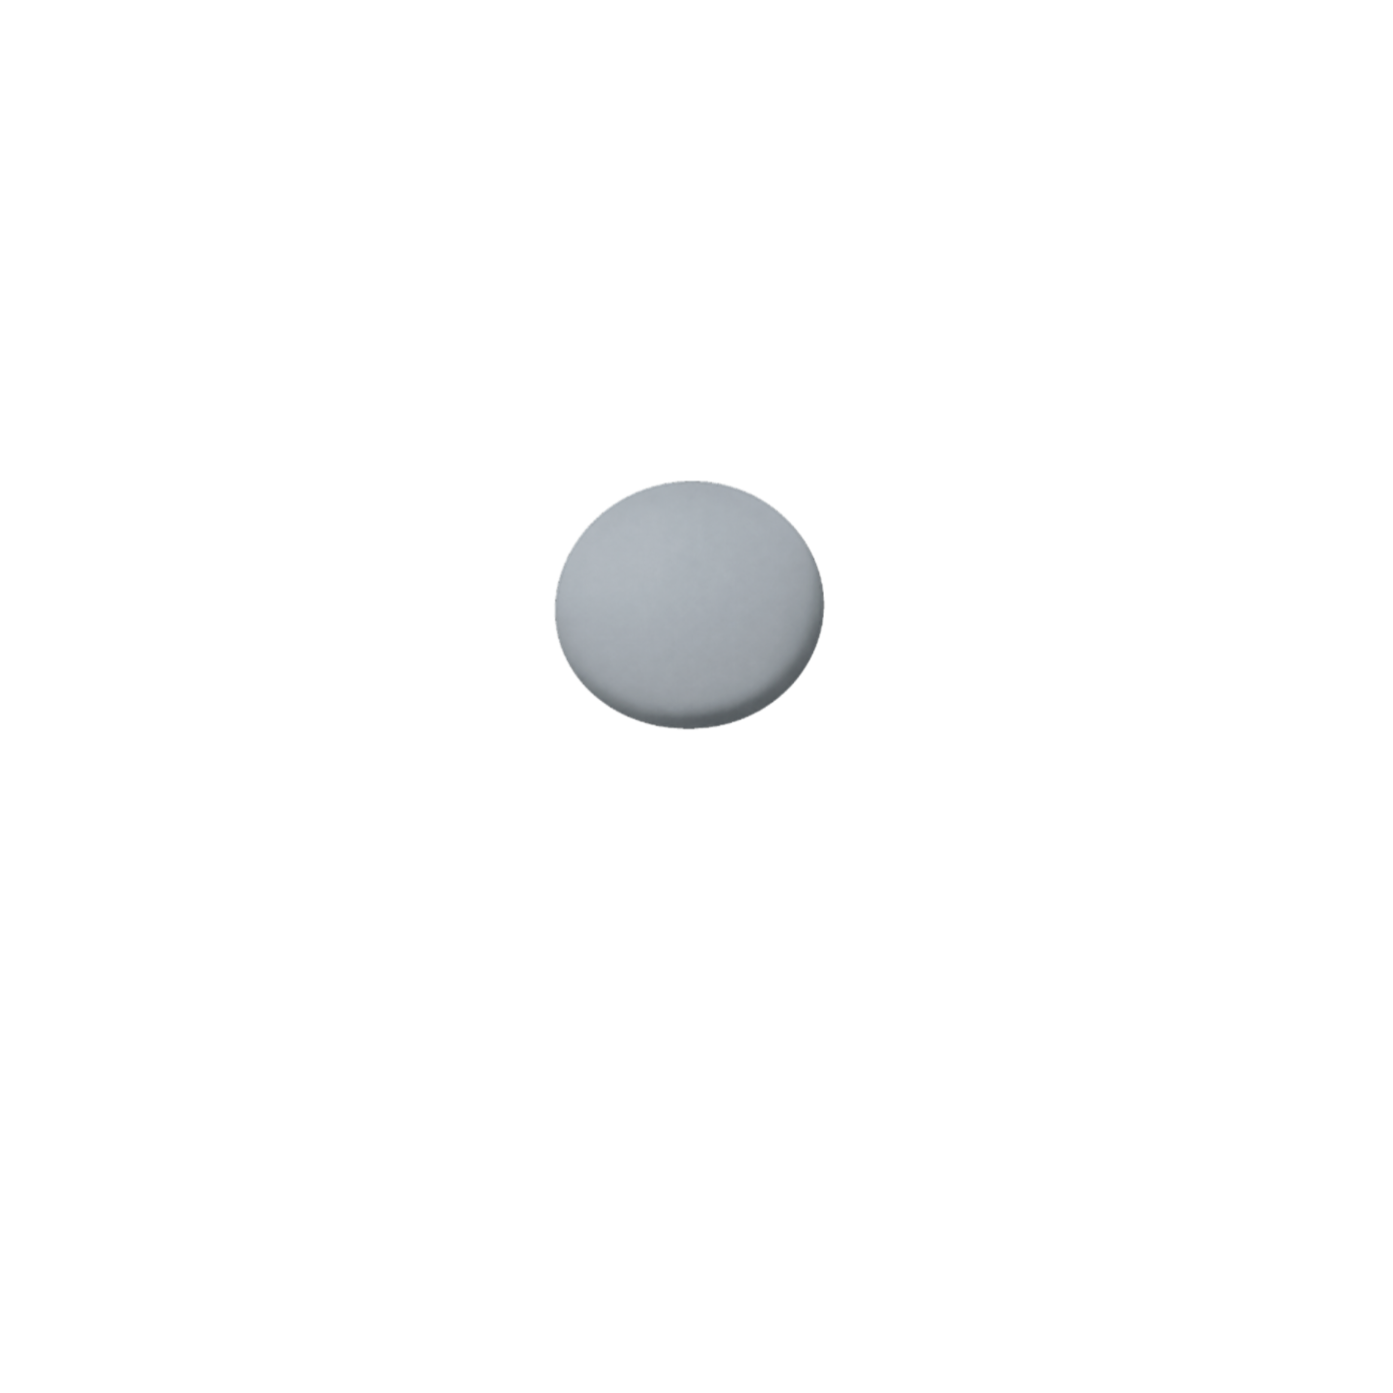
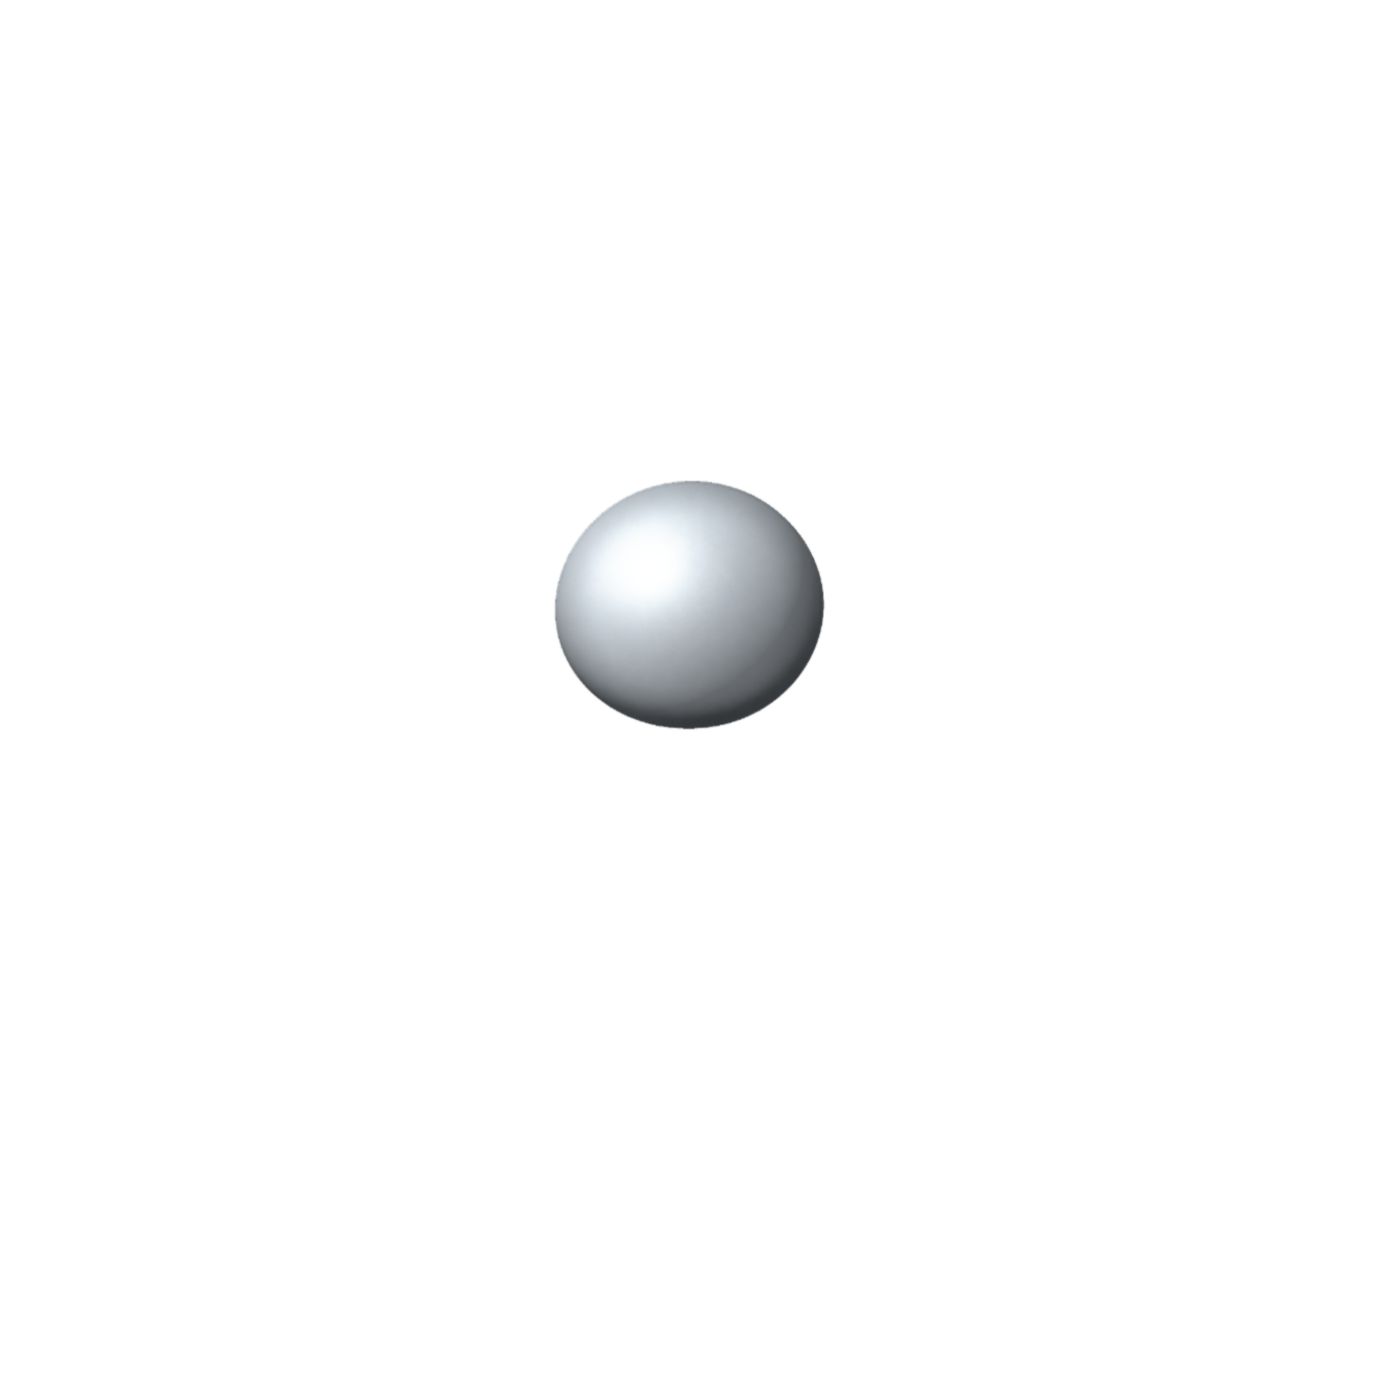
Light the skin balls as spheres, and let mouth props cast onto them
The three skins shipped as near-uniform matte discs: measured across the
ball, the entire luma gradient lived in the outer ~8% of the radius and
there was nothing in between. That is why a face read as a sticker rather
than a head -- the eye got no form information anywhere the eyes and
mouth actually sit.

shade_skin_balls.py rebuilds the lighting on a fitted sphere from the
collection's key (CLAUDE.md: upper left ~45 deg, cooler dimmer fill from
the lower right): a Lambert form ramp, a broad satin specular plus a
small glossy hotspot, a cool bounce on the lower-right limb, and rim
occlusion deepest on the shadow side. In-ball luma span 0.43-0.66 ->
1.09-1.65; BR/TL limb ratio 0.51-0.67 -> 0.28-0.37.

Two properties keep it safe. Alpha is preserved bit-for-bit and only RGB
is touched -- ball_fit() sizes every ball from the widest eye and each
face hole is registered against the ball's footprint, so touching alpha
would move the whole cast's face geometry; the tool asserts on it. And
the form ramp is mean-preserving, so each skin keeps its identity: the
median colour of all three moved by dE ~2.4, imperceptible.

Originals go to traits/skinz_originals/, a sibling of traits/skinz rather
than a folder inside it, because the generator mints every .png in a
trait folder. The tool always relights from the backup, so re-running is
idempotent instead of compounding the pass on itself.

Picked off a rendered ladder judged on characters at the face zoom, not
[…]

Changed region(s): [[0.4013, 0.3396, 0.5865, 0.5248]]

diff --git a/asset_assessment/shade_skin_balls.py b/asset_assessment/shade_skin_balls.py
@@ -1,0 +1,285 @@
+#!/usr/bin/env python3
+"""Relight the skin balls as lit, satin spheres instead of flat discs.
+
+The three skin assets (White / Black / Alien) ship as near-uniform matte discs
+with a faint darkening at the very rim and nothing in between: measured across
+the ball, the luma gradient lives almost entirely in the outer ~8 % of the
+radius. That is why a face reads as a sticker rather than a head — the eye gets
+no form information anywhere the eyes and mouth actually sit.
+
+This pass rebuilds the lighting from the collection's key (CLAUDE.md: upper
+left, ~45 deg, cooler dimmer fill from the lower right) on a fitted sphere:
+
+  form      mean-preserving multiplicative Lambert gradient, so the ball gains
+            a real light-to-shadow ramp across its whole face without its
+            average colour (its identity as White / Black / Alien) moving
+  sheen     Blinn-Phong specular, a BROAD lobe for the satin body plus a small
+            tight one for the glossy hotspot, both up-left of centre
+  fill      cool bounce on the lower-right limb, so the shadow side does not
+            go dead — this is the "rim light picking that edge back out"
+  occl      ambient occlusion at the extreme limb, deepest lower-right
+
+ALPHA IS PRESERVED BIT-FOR-BIT. Only RGB is touched. That is deliberate and
+load-bearing: ball_fit() sizes every ball from the widest eye and the face
+hole is registered against the ball's footprint, so any change to the alpha
+would move the whole cast's face geometry. Because alpha is untouched,
+verify_face_coverage.py and audit_face_holes.py cannot regress.
+
+Originals are backed up to traits/skinz_originals/ before anything is written.
+That folder is a sibling of traits/skinz, never inside it — the generator picks
+up every .png in a trait folder, so a backup living there would mint as a skin.
+
+Usage (from repo root):
+  python3 asset_assessment/shade_skin_balls.py --ladder   # candidates, no write
+  python3 asset_assessment/shade_skin_balls.py            # apply the picked set
+  python3 asset_assessment/shade_skin_balls.py --restore  # put the originals back
+"""
+
+import argparse
+import os
+import shutil
+import sys
+
+import numpy as np
+from PIL import Image
+
+SKIN_DIR = "traits/skinz"
+BACKUP_DIR = "traits/skinz_originals"
+OPAQUE = 128
+
+# Key light, in image space: +x right, +y DOWN, +z toward the viewer.
+# Upper-left at ~45 deg, tilted out of the plane so the terminator lands on
+# the lower-right limb rather than cutting the ball in half.
+KEY = np.array([-0.52, -0.52, 0.68])
+# The fill sits opposite the key and below, and is cool (CLAUDE.md).
+FILL = np.array([0.46, 0.44, -0.77])
+FILL_TINT = np.array([0.62, 0.72, 1.00])     # cool bounce
+SPEC_TINT = np.array([1.00, 0.98, 0.94])     # near-white, faintly warm
+
+# Picked from the ladder (see --ladder). Tuned so the ball gains real form
+# while its measured BR/TL limb ratio stays inside the band the cast already
+# established in shade_cyan_skin.py (White 0.48, Black 0.50, Alien 0.65).
+PRESET = {
+    "form": 0.62,        # depth of the Lambert ramp
+    "form_gamma": 0.85,  # <1 opens the shadows so the ramp is not a hard edge
+    "spec_broad": 0.20,  # satin lobe strength
+    "spec_broad_n": 12,  # ...and its exponent (low = broad)
+    "spec_tight": 0.13,  # glossy hotspot strength
+    "spec_tight_n": 90,
+    "fill": 0.15,        # cool bounce on the shadow limb
+    "occl": 0.26,        # rim ambient occlusion
+    "occl_width": 0.34,  # how far in from the limb the occlusion reaches
+}
+
+
+def sstep(a, b, x):
+    t = np.clip((x - a) / (b - a), 0.0, 1.0)
+    return t * t * (3.0 - 2.0 * t)
+
+
+def sphere_normals(alpha):
+    """Fit the opaque disc and return (nx, ny, nz, inside, rim).
+
+    rim is 0 at the ball's centre and 1 at its silhouette edge, i.e. 1 - nz,
+    which is what the occlusion term rides on."""
+    inside = alpha >= OPAQUE
+    ys, xs = np.nonzero(inside)
+    if len(xs) == 0:
+        raise ValueError("skin ball has no opaque pixels")
+    x0, x1 = xs.min(), xs.max()
+    y0, y1 = ys.min(), ys.max()
+    cx, cy = (x0 + x1) / 2.0, (y0 + y1) / 2.0
+    rx, ry = max((x1 - x0) / 2.0, 1.0), max((y1 - y0) / 2.0, 1.0)
+
+    h, w = alpha.shape
+    yy, xx = np.mgrid[0:h, 0:w]
+    nx = (xx - cx) / rx
+    ny = (yy - cy) / ry
+    r2 = nx * nx + ny * ny
+    nz = np.sqrt(np.clip(1.0 - r2, 0.0, 1.0))
+    return nx, ny, nz, inside, np.sqrt(np.clip(r2, 0.0, 1.0))
+
+
+def relight(img, p):
+    """Return a new RGBA image, relit. Alpha is copied through untouched."""
+    rgba = np.asarray(img.convert("RGBA"), dtype=np.float64) / 255.0
+    rgb = rgba[..., :3].copy()
+    alpha8 = np.asarray(img.convert("RGBA"))[..., 3]
+
+    nx, ny, nz, inside, rim = sphere_normals(alpha8)
+    n = np.stack([nx, ny, nz], axis=-1)
+
+    key = KEY / np.linalg.norm(KEY)
+    fill = FILL / np.linalg.norm(FILL)
+    lam = np.clip((n * key).sum(axis=-1), 0.0, 1.0) ** p["form_gamma"]
+
+    # ---- form: multiplicative and MEAN-PRESERVING over the ball, so the
+    # skin's identity (its average colour) does not drift lighter or darker.
+    if inside.any():
+        lam_mean = float(lam[inside].mean())
+    else:
+        lam_mean = 0.5
+    gain = 1.0 + p["form"] * (lam - lam_mean)
+
+    # ---- occlusion: only at the limb, and deeper on the shadow side
+    shadow_side = np.clip(-(n * key).sum(axis=-1), 0.0, 1.0)
+    occ = sstep(1.0 - p["occl_width"], 1.0, rim) * (0.45 + 0.55 * shadow_side)
+    gain *= 1.0 - p["occl"] * occ
+
+    rgb *= gain[..., None]
+
+    # ---- sheen: broad satin lobe + tight hotspot, both from the key
+    view = np.array([0.0, 0.0, 1.0])
+    half = key + view
+    half /= np.linalg.norm(half)
+    ndh = np.clip((n * half).sum(axis=-1), 0.0, 1.0)
+    spec = (p["spec_broad"] * ndh ** p["spec_broad_n"]
+            + p["spec_tight"] * ndh ** p["spec_tight_n"])
+    # a specular highlight does not survive past the silhouette edge
+    spec *= 1.0 - sstep(0.90, 1.0, rim)
+    rgb += SPEC_TINT * spec[..., None]
+
+    # ---- cool bounce on the lower-right limb
+    bounce = np.clip((n * fill).sum(axis=-1), 0.0, 1.0) ** 2.0
+    bounce *= sstep(0.45, 1.0, rim)
+    rgb += FILL_TINT * (p["fill"] * bounce)[..., None]
+
+    # filmic shoulder so the hotspot rolls off instead of clipping flat
+    s = 0.90
+    over = rgb > s
+    rgb[over] = s + (1 - s) * np.tanh((rgb[over] - s) / (1 - s))
+    rgb = np.clip(rgb, 0.0, 1.0)
+
+    # outside the ball, leave the source pixels alone entirely
+    keep = ~inside
+    rgb[keep] = rgba[..., :3][keep]
+
+    out = np.dstack([rgb * 255.0 + 0.5, alpha8[..., None].astype(np.float64)])
+    return Image.fromarray(out.astype(np.uint8), "RGBA")
+
+
+def limb_ratio(img):
+    """BR-limb / TL-limb luma, normalised by the in-ball median — the metric
+    shade_cyan_skin.py established for 'is this ball lit from the top left'.
+    The cast band is 0.48 (White) to 0.65 (Alien)."""
+    a = np.asarray(img.convert("RGBA"), dtype=np.float64)
+    alpha = a[..., 3]
+    y = 0.2126 * a[..., 0] + 0.7152 * a[..., 1] + 0.0722 * a[..., 2]
+    nx, ny, nz, inside, rim = sphere_normals(alpha)
+    if not inside.any():
+        return float("nan")
+    med = np.median(y[inside])
+    band = inside & (rim > 0.80)
+    diag = (nx + ny) / np.sqrt(2.0)          # TL negative, BR positive
+    tl = band & (diag < -0.55)
+    br = band & (diag > 0.55)
+    if not tl.any() or not br.any():
+        return float("nan")
+    return float((y[br].mean() / med) / (y[tl].mean() / med))
+
+
+def contrast_span(img):
+    """5th-95th percentile luma span inside the ball, as a share of its
+    median — how much form the ball actually carries."""
+    a = np.asarray(img.convert("RGBA"), dtype=np.float64)
+    y = 0.2126 * a[..., 0] + 0.7152 * a[..., 1] + 0.0722 * a[..., 2]
+    inside = a[..., 3] >= OPAQUE
+    if not inside.any():
+        return float("nan")
+    lo, hi = np.percentile(y[inside], [5, 95])
+    return float((hi - lo) / max(np.median(y[inside]), 1e-6))
+
+
+def skin_files():
+    return sorted(f for f in os.listdir(SKIN_DIR) if f.lower().endswith(".png"))
+
+
+def crop_ball(img, size=300, bg=(38, 38, 46)):
+    bb = img.getbbox()
+    c = img.crop(bb).resize((size, size), Image.Resampling.LANCZOS)
+    plate = Image.new("RGBA", (size, size), bg + (255,))
+    plate.alpha_composite(c)
+    return plate.convert("RGB")
+
+
+def render_ladder(out_path):
+    from PIL import ImageDraw, ImageFont
+    variants = [("original", None)]
+    for name, scale in [("soft", 0.6), ("PICKED", 1.0), ("strong", 1.45)]:
+        p = dict(PRESET)
+        for k in ("form", "spec_broad", "spec_tight", "fill", "occl"):
+            p[k] = PRESET[k] * scale
+        variants.append((name, p))
+
+    files = skin_files()
+    try:
+        font = ImageFont.truetype(
+            "/usr/share/fonts/truetype/dejavu/DejaVuSans-Bold.ttf", 15)
+    except OSError:
+        font = ImageFont.load_default()
+    CS, LH = 300, 42
+    sheet = Image.new("RGB", (len(variants) * CS, len(files) * (CS + LH)),
+                      (16, 16, 16))
+    d = ImageDraw.Draw(sheet)
+    for r, fn in enumerate(files):
+        src = Image.open(os.path.join(SKIN_DIR, fn)).convert("RGBA")
+        for c, (name, p) in enumerate(variants):
+            im = src if p is None else relight(src, p)
+            x, y = c * CS, r * (CS + LH)
+            sheet.paste(crop_ball(im, CS), (x, y))
+            d.text((x + 5, y + CS + 3),
+                   f"{name}  {fn[:24]}", font=font, fill=(235, 235, 235))
+            d.text((x + 5, y + CS + 21),
+                   f"BR/TL {limb_ratio(im):.2f}   span {contrast_span(im):.2f}",
+                   font=font, fill=(150, 200, 150))
+    sheet.save(out_path)
+    print(f"ladder -> {out_path}")
+
+
+def apply():
+    os.makedirs(BACKUP_DIR, exist_ok=True)
+    for fn in skin_files():
+        src = os.path.join(SKIN_DIR, fn)
+        bak = os.path.join(BACKUP_DIR, fn)
+        if not os.path.exists(bak):
+            shutil.copy2(src, bak)
+            print(f"backed up {fn}")
+        # always relight from the ORIGINAL, so re-running is idempotent
+        # rather than compounding the shading pass on itself
+        img = Image.open(bak).convert("RGBA")
+        out = relight(img, PRESET)
+        before_a = np.asarray(img)[..., 3]
+        after_a = np.asarray(out)[..., 3]
+        assert np.array_equal(before_a, after_a), f"{fn}: alpha changed"
+        out.save(src)
+        print(f"  {fn}: BR/TL {limb_ratio(img):.2f} -> {limb_ratio(out):.2f}   "
+              f"span {contrast_span(img):.2f} -> {contrast_span(out):.2f}")
+
+
+def restore():
+    if not os.path.isdir(BACKUP_DIR):
+        sys.exit(f"no backup at {BACKUP_DIR}")
+    for fn in sorted(os.listdir(BACKUP_DIR)):
+        if fn.lower().endswith(".png"):
+            shutil.copy2(os.path.join(BACKUP_DIR, fn),
+                         os.path.join(SKIN_DIR, fn))
+            print(f"restored {fn}")
+
+
+def main():
+    ap = argparse.ArgumentParser()
+    ap.add_argument("--ladder", metavar="OUT", nargs="?",
+                    const="/tmp/skin_ladder.png", default=None,
+                    help="render candidates and exit without writing")
+    ap.add_argument("--restore", action="store_true")
+    args = ap.parse_args()
+    if args.restore:
+        restore()
+    elif args.ladder:
+        render_ladder(args.ladder)
+    else:
+        apply()
+
+
+if __name__ == "__main__":
+    main()

diff --git a/generator.py b/generator.py
@@ -857,6 +857,24 @@ BALL_FIT_MARGIN = 0.92
 # and clipped to the foreground so it never falls on the background plate.
 SKIN_SHADOW = None  # e.g. {"blur": 14, "opacity": 0.55, "dx": 0, "dy": 8}
 
+# ---- mouth-prop shadow (cast onto the SKIN BALL) ----
+# Most mouths are flat line art painted onto the face — a smile, a frown, a
+# flat line — and giving those a shadow embosses them, which is wrong. Two
+# mouths are three-dimensional props that genuinely stand off the face and
+# should therefore drop a shadow onto the skin: the lit joint and the
+# lollipop. Only those are listed here.
+#
+# It rides the generic per-layer shadow in create_image(), which clips to the
+# foreground built so far, so the shadow lands on the skin ball and the body
+# and can never spill onto the background plate. Offset DOWN AND RIGHT — the
+# key light is upper-left (CLAUDE.md), same as every other cast shadow here.
+# Set to None to disable.
+MOUTH_PROP_SHADOW = {"blur": 7, "opacity": 0.42, "dx": 9, "dy": 11}
+MOUTH_PROP_FILES = {
+    "layer-Mouth_Smoke (1).png",
+    "layer-Mouth_Lollipop (1).png",
+}
+
 # ---- character grounding shadow (cast ONTO the background) ----
 # Soft shadow cast by the character's silhouette onto the background plate,
 # composited ABOVE the plate and BELOW the character, so each character sits
@@ -1375,8 +1393,13 @@ def generate_random_combination(force_bg=None, force_arm="auto",
     layers.append({"path": os.path.join(TRAITS_DIR, EYEZ, eye),
                    "offset": apply_offset, "dy": y_adjust + bg_extra_y})
 
-    layers.append({"path": os.path.join(TRAITS_DIR, MOUTHZ, mouth),
-                   "offset": apply_offset, "dy": y_adjust + bg_extra_y})
+    mouth_layer = {"path": os.path.join(TRAITS_DIR, MOUTHZ, mouth),
+                   "offset": apply_offset, "dy": y_adjust + bg_extra_y}
+    # a mouth that is a 3D prop (joint, lollipop) drops a shadow on the skin;
+    # flat painted mouths do not — see MOUTH_PROP_SHADOW
+    if MOUTH_PROP_SHADOW and mouth in MOUTH_PROP_FILES:
+        mouth_layer["shadow"] = dict(MOUTH_PROP_SHADOW)
+    layers.append(mouth_layer)
 
     # 8. What Are Thosez OVERLAY (footwear front piece) — placed BEFORE arms
     # so a held weapon (katana/knives) reads on top of the slippers instead

diff --git a/CLAUDE.md b/CLAUDE.md
@@ -121,6 +121,39 @@ rendering the gold waffle's body (with its own placement tables applied to it,
 leaking a 132×31 hole through its face) while `after_skinz_waffle.png` was
 never drawn at all.
 
+## The skin balls are lit spheres, not flat discs
+
+The three skins ship **relit** by `asset_assessment/shade_skin_balls.py`:
+a mean-preserving Lambert form ramp from the upper-left key, a broad satin
+specular plus a small glossy hotspot, a cool bounce on the lower-right limb
+and rim occlusion. Before this they were near-uniform matte discs whose entire
+luma gradient lived in the outer ~8 % of the radius, which is why a face read
+as a sticker — the eye got no form information anywhere the eyes and mouth
+actually sit. Measured in-ball luma span went 0.43–0.66 → 1.09–1.65, and the
+BR/TL limb ratio 0.51–0.67 → 0.28–0.37 (the old 0.48–0.65 band recorded in
+`shade_cyan_skin.py` described the flat art and is superseded).
+
+Two rules hold it together:
+
+- **Alpha is preserved bit-for-bit; only RGB is touched.** `ball_fit()` sizes
+  every ball from the widest eye and each face hole is registered against the
+  ball's footprint, so a change to the alpha would move the whole cast's face
+  geometry. The tool asserts on this.
+- **The form ramp is mean-preserving**, so each skin keeps its identity — the
+  median colour of all three moved by dE ≈ 2.4, imperceptible.
+
+Originals live in `traits/skinz_originals/` (a *sibling* of `traits/skinz` —
+the generator mints every `.png` in a trait folder, so a backup inside it
+would mint as a skin). The tool always relights from the backup, so re-running
+it is idempotent rather than compounding the pass on itself; `--restore` puts
+the originals back and `--ladder` renders candidates without writing.
+
+**Mouth props cast onto the skin.** `MOUTH_PROP_SHADOW` in `generator.py`
+gives the joint and the lollipop a shadow via the generic per-layer shadow,
+which clips to the foreground so it lands on the ball and body but never the
+plate. Only those two are listed: the other seven mouths are flat line art
+painted onto the face, and a shadow embosses them.
+
 ## Backgrounds are a two-stage problem
 
 The plates are graded as a family by `background_pop_studies/grade.py`
